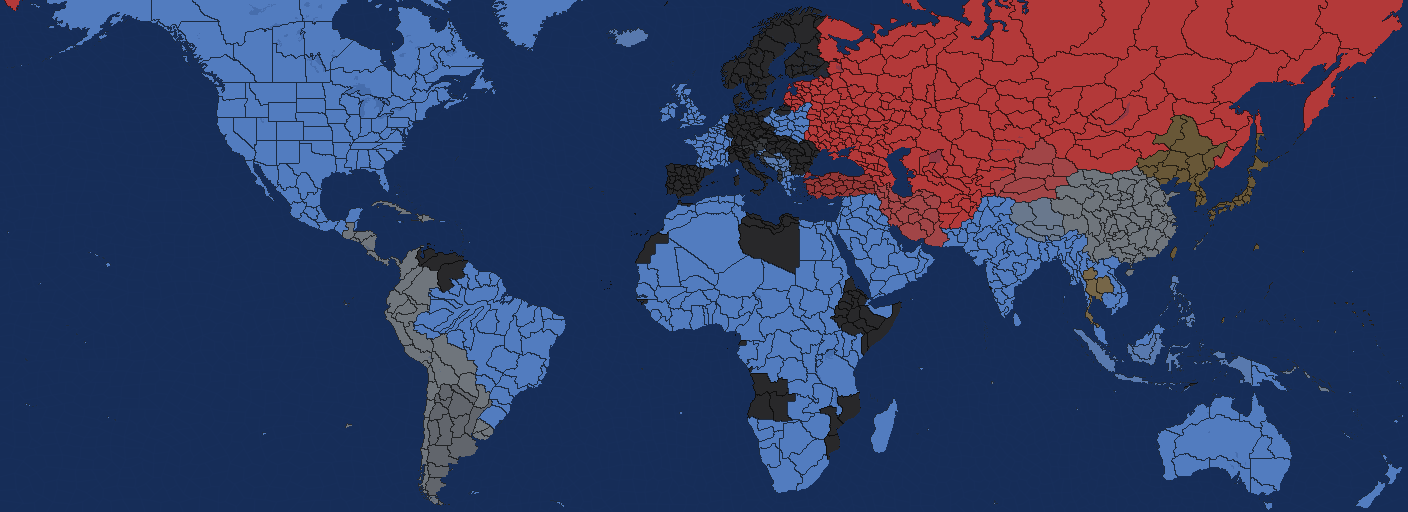
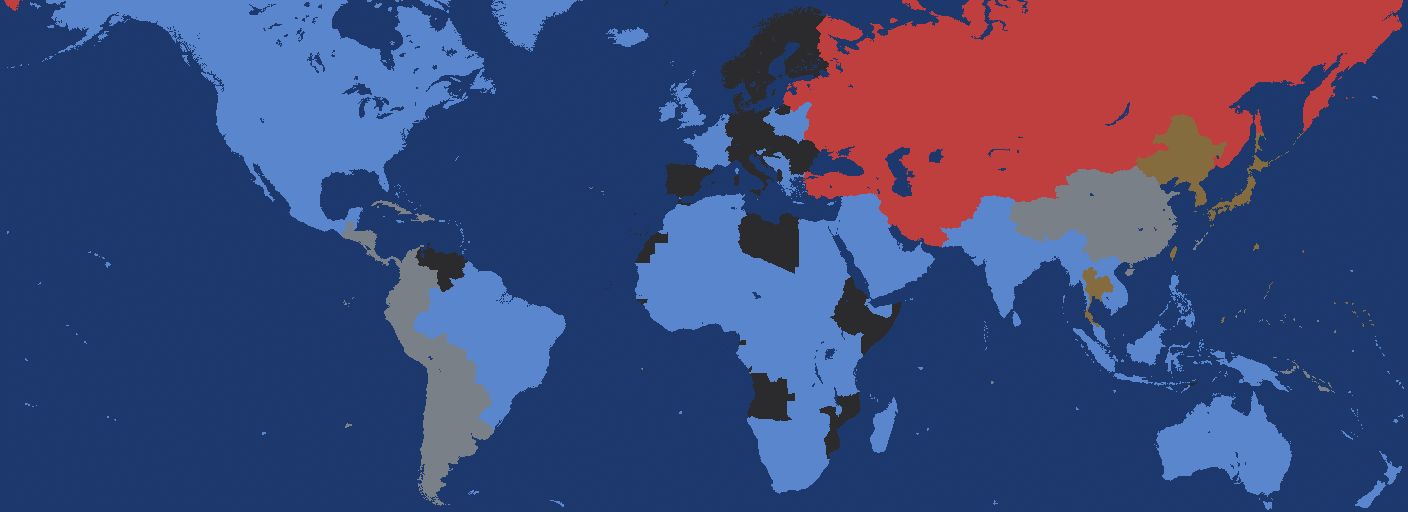
Rewrite

diff --git a/games/2026-05-16-v5-parsed-controller/index.html b/games/2026-05-16-v5-parsed-controller/index.html
@@ -1,14 +1,4 @@
 <!doctype html><html><head><meta charset="utf-8"><meta name="viewport" content="width=device-width, initial-scale=1" /><title>HOI4 FUWG v5 Parsed Animation</title><style>
-:root{color-scheme:dark}body{margin:0;background:#05070c;color:#fff;font-family:Inter,Arial,sans-serif;display:flex;justify-content:center}.wrap{width:min(1500px,96vw);padding:18px 0}h1{font-size:24px;margin:0 0 8px}p{color:#b7bcc8;margin:0 0 12px;line-height:1.35}.viewer{position:relative;border:1px solid #2b3446;border-radius:18px;overflow:hidden;background:#04060a;box-shadow:0 18px 60px rgba(0,0,0,.55)}canvas{width:100%;display:block}.status{position:absolute;inset:0;display:flex;align-items:center;justify-content:center;background:#04060a;color:#d1d5db;font-weight:800;text-align:center;padding:20px}.controls{display:flex;gap:10px;align-items:center;margin-top:12px;flex-wrap:wrap}button{border:0;border-radius:12px;padding:12px 16px;font-weight:800;cursor:pointer;background:#f3f4f6;color:#111}input[type=range]{flex:1;min-width:260px}.badge{background:#141820;border:1px solid #2b3446;padding:10px 12px;border-radius:12px;color:#e5e7eb;min-width:280px}.legend{display:flex;gap:8px;flex-wrap:wrap;margin-top:10px;color:#cbd5e1}.pill{background:#111827;border:1px solid #263244;border-radius:999px;padding:6px 10px;font-size:13px;display:inline-flex;align-items:center;gap:8px}.dot{width:10px;height:10px;border-radius:50%}</style></head><body><div class="wrap"><h1>HOI4 FUWG v5 Parsed Save Animation</h1><p>Controller-based full-frame renderer · 21 parsed snapshots · 1936.3.7.14 to 1936.7.25.14</p><div class="viewer"><canvas id="map" width="1408" height="512"></canvas><div id="status" class="status">Loading map assets…</div></div><div class="controls"><button id="play">Play</button><button id="back">-1</button><button id="next">+1</button><button id="slow">Slow</button><button id="fast">Fast</button><input id="slider" type="range" min="0" max="20" value="0"><span class="badge" id="label"></span></div><div class="legend"><span class="pill"><span class="dot" style="background:#5a86cd"></span>Allies</span><span class="pill"><span class="dot" style="background:#2b2b2d"></span>Axis</span><span class="pill"><span class="dot" style="background:#bf3e3e"></span>Comintern</span><span class="pill"><span class="dot" style="background:#846c3f"></span>GEACPS</span><span class="pill"><span class="dot" style="background:#7a8088"></span>Neutral</span></div></div><script>
-const metadata = {"width": 1408, "height": 512, "source": "v5_binary_state_parser_controller", "renderMode": "fullFrames", "snapshotCount": 21, "startDate": "1936.3.7.14", "endDate": "1936.7.25.14", "snapshots": [{"index": 1, "game_date": "1936.3.7.14", "display_date": "07 Mar 1936", "frame": "frames/frame_000.png", "state_count": 1038}, {"index": 2, "game_date": "1936.3.14.14", "display_date": "14 Mar 1936", "frame": "frames/frame_001.png", "state_count": 1038}, {"index": 3, "game_date": "1936.3.21.14", "display_date": "21 Mar 1936", "frame": "frames/frame_002.png", "state_count": 1038}, {"index": 4, "game_date": "1936.3.28.14", "display_date": "28 Mar 1936", "frame": "frames/frame_003.png", "state_count": 1038}, {"index": 5, "game_date": "1936.4.4.14", "display_date": "04 Apr 1936", "frame": "frames/frame_004.png", "state_count": 1038}, {"index": 6, "game_date": "1936.4.11.14", "display_date": "11 Apr 1936", "frame": "frames/frame_005.png", "state_count": 1038}, {"index": 7, "game_date": "1936.4.18.14", "display_date": "18 Apr 1936", "frame": "frames/frame_006.png", "state_count": 1038}, {"index": 8, "game_date": "1936.4.25.14", "display_date": "25 Apr 1936", "frame": "frames/frame_007.png", "state_count": 1038}, {"index": 9, "game_date": "1936.5.2.14", "display_date": "02 May 1936", "frame": "frames/frame_008.png", "state_count": 1038}, {"index": 10, "game_date": "1936.5.9.14", "display_date": "09 May 1936", "frame": "frames/frame_009.png", "state_count": 1038}, {"index": 11, "game_date": "1936.5.16.14", "display_date": "16 May 1936", "frame": "frames/frame_010.png", "state_count": 1038}, {"index": 12, "game_date": "1936.5.23.14", "display_date": "23 May 1936", "frame": "frames/frame_011.png", "state_count": 1038}, {"index": 13, "game_date": "1936.5.30.14", "display_date": "30 May 1936", "frame": "frames/frame_012.png", "state_count": 1038}, {"index": 14, "game_date": "1936.6.6.14", "display_date": "06 Jun 1936", "frame": "frames/frame_013.png", "state_count": 1038}, {"index": 15, "game_date": "1936.6.13.14", "display_date": "13 Jun 1936", "frame": "frames/frame_014.png", "state_count": 1038}, {"index": 16, "game_date": "1936.6.20.14", "display_date": "20 Jun 1936", "frame": "frames/frame_015.png", "state_count": 1038}, {"index": 17, "game_date": "1936.6.27.14", "display_date": "27 Jun 1936", "frame": "frames/frame_016.png", "state_count": 1038}, {"index": 18, "game_date": "1936.7.4.14", "display_date": "04 Jul 1936", "frame": "frames/frame_017.png", "state_count": 1038}, {"index": 19, "game_date": "1936.7.11.14", "display_date": "11 Jul 1936", "frame": "frames/frame_018.png", "state_count": 1038}, {"index": 20, "game_date": "1936.7.18.14", "display_date": "18 Jul 1936", "frame": "frames/frame_019.png", "state_count": 1038}, {"index": 21, "game_date": "1936.7.25.14", "display_date": "25 Jul 1936", "frame": "frames/frame_020.png", "state_count": 1038}], "legend": {"allies": "#5a86cd", "axis": "#2b2b2d", "comintern": "#bf3e3e", "geacps": "#846c3f", "neutral": "#7a8088", "unknown": "#9aa0a6"}, "factionMap": {"ALB": "axis", "AST": "allies", "AUS": "axis", "BEL": "allies", "BUL": "axis", "CAN": "allies", "CHI": "neutral", "CZE": "axis", "EFR": "neutral", "ENG": "allies", "ETH": "axis", "FIN": "axis", "FRA": "allies", "GER": "axis", "GRE": "allies", "HOL": "allies", "HUN": "axis", "INS": "allies", "IRE": "allies", "ITA": "axis", "JAP": "geacps", "MAN": "geacps", "MEN": "geacps", "SIA": "geacps", "LIT": "comintern", "LAT": "comintern", "EST": "comintern", "MON": "comintern", "TAN": "comintern", "NUL": "neutral", "NZL": "allies", "POL": "allies", "RAJ": "allies", "ROM": "axis", "SAF": "allies", "SAU": "allies", "SOV": "comintern", "SPR": "axis", "SWE": "axis", "TUR": "comintern", "USA": "allies", "VEN": "axis", "YUG": "allies"}, "missingStateCountPerSnapshot": [8, 8, 8, 8, 8, 8, 8, 8, 8, 8, 8, 8, 8, 8, 8, 8, 8, 8, 8, 8, 8], "missingStatesNote": "v5 parse reads 1038 states across FUWG ID range 1-1046; missing states are tiny island/overseas states from uploaded sample.", "unknownTags": []};
-const canvas=document.getElementById('map'),ctx=canvas.getContext('2d'),statusBox=document.getElementById('status'),slider=document.getElementById('slider'),label=document.getElementById('label'),playBtn=document.getElementById('play');
-let idx=0,playing=false,delay=170;const cache=new Map();let token=0;
-function roundRect(c,x,y,w,h,r){c.beginPath();c.moveTo(x+r,y);c.arcTo(x+w,y,x+w,y+h,r);c.arcTo(x+w,y+h,x,y+h,r);c.arcTo(x,y+h,x,y,r);c.arcTo(x,y,x+w,y,r);c.closePath();}
-function panel(c,x,y,w,h){c.fillStyle='rgba(8,10,14,.84)';c.strokeStyle='rgba(255,255,255,.18)';c.lineWidth=1;roundRect(c,x,y,w,h,16);c.fill();c.stroke();}
-function drawUI(c,s){c.save();panel(c,18,18,190,64);c.font='700 16px Arial';c.fillStyle='rgba(195,195,195,.96)';c.fillText('CURRENT DATE',30,37);c.font='900 24px Arial';c.fillStyle='rgba(255,255,255,.98)';c.fillText(s.display_date,30,62);panel(c,1190,18,200,56);c.font='700 15px Arial';c.fillStyle='rgba(195,195,195,.96)';c.fillText('PARSED STATES',1236,38);c.font='900 18px Arial';c.fillStyle='rgba(255,255,255,.98)';c.fillText(String(s.state_count),1272,58);c.textAlign='center';panel(c,245,18,918,38);c.font='800 18px Arial';c.fillStyle='rgba(238,238,238,.98)';c.fillText('v5 controller-based FUWG renderer',704,43);c.textAlign='left';c.fillStyle='rgba(8,10,14,.7)';c.strokeStyle='rgba(255,255,255,.12)';roundRect(c,18,470,520,32,13);c.fill();c.stroke();c.font='900 14px Arial';c.fillStyle='rgba(220,220,220,.95)';c.fillText(`Snapshot ${idx+1} / $21`,30,491);c.restore();}
-function loadImage(src){return new Promise((res,rej)=>{const img=new Image();img.onload=()=>res(img);img.onerror=()=>rej(new Error('Failed to load '+src));img.src=src;})}
-async function getFrame(i){const rel=metadata.snapshots[i].frame;if(cache.has(rel))return cache.get(rel);const p=loadImage('./assets/'+rel);cache.set(rel,p);return p;}
-async function render(){const t=++token,s=metadata.snapshots[idx];statusBox.style.display='flex';statusBox.textContent='Loading frame…';try{const img=await getFrame(idx);if(t!==token)return;ctx.clearRect(0,0,canvas.width,canvas.height);ctx.drawImage(img,0,0);drawUI(ctx,s);slider.value=idx;label.textContent=s.display_date+' · '+s.game_date;statusBox.style.display='none';[idx+1,idx+2,idx-1].filter(v=>v>=0&&v<metadata.snapshotCount).forEach(i=>getFrame(i));}catch(e){statusBox.innerHTML='Map failed to load.<br><br>'+e.message;console.error(e);}}
-function tick(){if(!playing)return;idx=Math.min(metadata.snapshotCount-1,idx+1);render().then(()=>{if(idx>=metadata.snapshotCount-1){playing=false;playBtn.textContent='Play';return;}setTimeout(tick,delay);})}
-playBtn.onclick=()=>{playing=!playing;playBtn.textContent=playing?'Pause':'Play';if(playing)tick();};document.getElementById('back').onclick=()=>{idx=Math.max(0,idx-1);render();};document.getElementById('next').onclick=()=>{idx=Math.min(metadata.snapshotCount-1,idx+1);render();};document.getElementById('slow').onclick=()=>delay=260;document.getElementById('fast').onclick=()=>delay=95;slider.oninput=e=>{idx=Number(e.target.value);render();};render();
+:root{color-scheme:dark}body{margin:0;background:#05070c;color:#fff;font-family:Inter,Arial,sans-serif;display:flex;justify-content:center}.wrap{width:min(1500px,96vw);padding:18px 0}h1{font-size:24px;margin:0 0 8px}p{color:#b7bcc8;margin:0 0 12px;line-height:1.35}.viewer{position:relative;border:1px solid #2b3446;border-radius:18px;overflow:hidden;background:#04060a;box-shadow:0 18px 60px rgba(0,0,0,.55)}canvas{width:100%;display:block}.status{position:absolute;inset:0;display:flex;align-items:center;justify-content:center;background:#04060a;color:#d1d5db;font-weight:800;text-align:center;padding:20px}.controls{display:flex;gap:10px;align-items:center;margin-top:12px;flex-wrap:wrap}button{border:0;border-radius:12px;padding:12px 16px;font-weight:800;cursor:pointer;background:#f3f4f6;color:#111}input[type=range]{flex:1;min-width:260px}.badge{background:#141820;border:1px solid #2b3446;padding:10px 12px;border-radius:12px;color:#e5e7eb;min-width:280px}.legend{display:flex;gap:8px;flex-wrap:wrap;margin-top:10px;color:#cbd5e1}.pill{background:#111827;border:1px solid #263244;border-radius:999px;padding:6px 10px;font-size:13px;display:inline-flex;align-items:center;gap:8px}.dot{width:10px;height:10px;border-radius:50%}a.back{display:inline-block;margin-bottom:12px;color:#cbd5e1}</style></head><body><div class="wrap"><a class="back" href="../../index.html">← Back to archive</a><h1>HOI4 FUWG v5 Parsed Save Animation</h1><p>Controller-based full-frame renderer · borderless state fill · 21 parsed snapshots · 1936.3.7.14 to 1936.7.25.14</p><div class="viewer"><canvas id="map" width="1408" height="512"></canvas><div id="status" class="status">Loading map assets…</div></div><div class="controls"><button id="play">Play</button><button id="back">-1</button><button id="next">+1</button><button id="slow">Slow</button><button id="fast">Fast</button><input id="slider" type="range" min="0" max="20" value="0"><span class="badge" id="label"></span></div><div class="legend"><span class="pill"><span class="dot" style="background:#5a86cd"></span>Allies</span><span class="pill"><span class="dot" style="background:#2b2b2d"></span>Axis</span><span class="pill"><span class="dot" style="background:#bf3e3e"></span>Comintern</span><span class="pill"><span class="dot" style="background:#846c3f"></span>GEACPS</span><span class="pill"><span class="dot" style="background:#7a8088"></span>Neutral</span></div></div><script>
+const metadata={"width": 1408, "height": 512, "source": "v5_binary_state_parser_controller_noborders", "renderMode": "fullFrames", "snapshotCount": 21, "startDate": "1936.3.7.14", "endDate": "1936.7.25.14", "snapshots": [{"index": 1, "game_date": "1936.3.7.14", "display_date": "07 Mar 1936", "frame": "frames/frame_000.png", "state_count": 1038}, {"index": 2, "game_date": "1936.3.14.14", "display_date": "14 Mar 1936", "frame": "frames/frame_001.png", "state_count": 1038}, {"index": 3, "game_date": "1936.3.21.14", "display_date": "21 Mar 1936", "frame": "frames/frame_002.png", "state_count": 1038}, {"index": 4, "game_date": "1936.3.28.14", "display_date": "28 Mar 1936", "frame": "frames/frame_003.png", "state_count": 1038}, {"index": 5, "game_date": "1936.4.4.14", "display_date": "04 Apr 1936", "frame": "frames/frame_004.png", "state_count": 1038}, {"index": 6, "game_date": "1936.4.11.14", "display_date": "11 Apr 1936", "frame": "frames/frame_005.png", "state_count": 1038}, {"index": 7, "game_date": "1936.4.18.14", "display_date": "18 Apr 1936", "frame": "frames/frame_006.png", "state_count": 1038}, {"index": 8, "game_date": "1936.4.25.14", "display_date": "25 Apr 1936", "frame": "frames/frame_007.png", "state_count": 1038}, {"index": 9, "game_date": "1936.5.2.14", "display_date": "02 May 1936", "frame": "frames/frame_008.png", "state_count": 1038}, {"index": 10, "game_date": "1936.5.9.14", "display_date": "09 May 1936", "frame": "frames/frame_009.png", "state_count": 1038}, {"index": 11, "game_date": "1936.5.16.14", "display_date": "16 May 1936", "frame": "frames/frame_010.png", "state_count": 1038}, {"index": 12, "game_date": "1936.5.23.14", "display_date": "23 May 1936", "frame": "frames/frame_011.png", "state_count": 1038}, {"index": 13, "game_date": "1936.5.30.14", "display_date": "30 May 1936", "frame": "frames/frame_012.png", "state_count": 1038}, {"index": 14, "game_date": "1936.6.6.14", "display_date": "06 Jun 1936", "frame": "frames/frame_013.png", "state_count": 1038}, {"index": 15, "game_date": "1936.6.13.14", "display_date": "13 Jun 1936", "frame": "frames/frame_014.png", "state_count": 1038}, {"index": 16, "game_date": "1936.6.20.14", "display_date": "20 Jun 1936", "frame": "frames/frame_015.png", "state_count": 1038}, {"index": 17, "game_date": "1936.6.27.14", "display_date": "27 Jun 1936", "frame": "frames/frame_016.png", "state_count": 1038}, {"index": 18, "game_date": "1936.7.4.14", "display_date": "04 Jul 1936", "frame": "frames/frame_017.png", "state_count": 1038}, {"index": 19, "game_date": "1936.7.11.14", "display_date": "11 Jul 1936", "frame": "frames/frame_018.png", "state_count": 1038}, {"index": 20, "game_date": "1936.7.18.14", "display_date": "18 Jul 1936", "frame": "frames/frame_019.png", "state_count": 1038}, {"index": 21, "game_date": "1936.7.25.14", "display_date": "25 Jul 1936", "frame": "frames/frame_020.png", "state_count": 1038}], "legend": {"allies": "#5a86cd", "axis": "#2b2b2d", "comintern": "#bf3e3e", "geacps": "#846c3f", "neutral": "#7a8088", "unknown": "#9aa0a6"}, "factionMap": {"ALB": "axis", "AST": "allies", "AUS": "axis", "BEL": "allies", "BUL": "axis", "CAN": "allies", "CHI": "neutral", "CZE": "axis", "EFR": "neutral", "ENG": "allies", "ETH": "axis", "FIN": "axis", "FRA": "allies", "GER": "axis", "GRE": "allies", "HOL": "allies", "HUN": "axis", "INS": "allies", "IRE": "allies", "ITA": "axis", "JAP": "geacps", "MAN": "geacps", "MEN": "geacps", "SIA": "geacps", "LIT": "comintern", "LAT": "comintern", "EST": "comintern", "MON": "comintern", "TAN": "comintern", "NUL": "neutral", "NZL": "allies", "POL": "allies", "RAJ": "allies", "ROM": "axis", "SAF": "allies", "SAU": "allies", "SOV": "comintern", "SPR": "axis", "SWE": "axis", "TUR": "comintern", "USA": "allies", "VEN": "axis", "YUG": "allies"}, "missingStateCountPerSnapshot": [8, 8, 8, 8, 8, 8, 8, 8, 8, 8, 8, 8, 8, 8, 8, 8, 8, 8, 8, 8, 8], "missingStatesNote": "Built from v5 parse output with borderless state fill using FUWG state files.", "unknownTags": []};const canvas=document.getElementById('map'),ctx=canvas.getContext('2d'),statusBox=document.getElementById('status'),slider=document.getElementById('slider'),label=document.getElementById('label'),playBtn=document.getElementById('play');let idx=0,playing=false,delay=170;const cache=new Map();let token=0;function roundRect(c,x,y,w,h,r){c.beginPath();c.moveTo(x+r,y);c.arcTo(x+w,y,x+w,y+h,r);c.arcTo(x+w,y+h,x,y+h,r);c.arcTo(x,y+h,x,y,r);c.arcTo(x,y,x+w,y,r);c.closePath();}function panel(c,x,y,w,h){c.fillStyle='rgba(8,10,14,.84)';c.strokeStyle='rgba(255,255,255,.18)';c.lineWidth=1;roundRect(c,x,y,w,h,16);c.fill();c.stroke();}function drawUI(c,s){c.save();panel(c,18,18,190,64);c.font='700 16px Arial';c.fillStyle='rgba(195,195,195,.96)';c.fillText('CURRENT DATE',30,37);c.font='900 24px Arial';c.fillStyle='rgba(255,255,255,.98)';c.fillText(s.display_date,30,62);panel(c,1190,18,200,56);c.font='700 15px Arial';c.fillStyle='rgba(195,195,195,.96)';c.fillText('PARSED STATES',1236,38);c.font='900 18px Arial';c.fillStyle='rgba(255,255,255,.98)';c.fillText(String(s.state_count),1272,58);c.textAlign='center';panel(c,245,18,918,38);c.font='800 18px Arial';c.fillStyle='rgba(238,238,238,.98)';c.fillText('v5 controller-based FUWG renderer · borderless state fill',704,43);c.textAlign='left';c.fillStyle='rgba(8,10,14,.7)';c.strokeStyle='rgba(255,255,255,.12)';roundRect(c,18,470,520,32,13);c.fill();c.stroke();c.font='900 14px Arial';c.fillStyle='rgba(220,220,220,.95)';c.fillText(`Snapshot ${idx+1} / $21`,30,491);c.restore();}function loadImage(src){return new Promise((res,rej)=>{const img=new Image();img.onload=()=>res(img);img.onerror=()=>rej(new Error('Failed to load '+src));img.src=src;})}async function getFrame(i){const rel=metadata.snapshots[i].frame;if(cache.has(rel))return cache.get(rel);const p=loadImage('./assets/'+rel);cache.set(rel,p);return p;}async function render(){const t=++token,s=metadata.snapshots[idx];statusBox.style.display='flex';statusBox.textContent='Loading frame…';try{const img=await getFrame(idx);if(t!==token)return;ctx.clearRect(0,0,canvas.width,canvas.height);ctx.drawImage(img,0,0);drawUI(ctx,s);slider.value=idx;label.textContent=s.display_date+' · '+s.game_date;statusBox.style.display='none';[idx+1,idx+2,idx-1].filter(v=>v>=0&&v<metadata.snapshotCount).forEach(i=>getFrame(i));}catch(e){statusBox.innerHTML='Map failed to load.<br><br>'+e.message;console.error(e);}}function tick(){if(!playing)return;idx=Math.min(metadata.snapshotCount-1,idx+1);render().then(()=>{if(idx>=metadata.snapshotCount-1){playing=false;playBtn.textContent='Play';return;}setTimeout(tick,delay);})}playBtn.onclick=()=>{playing=!playing;playBtn.textContent=playing?'Pause':'Play';if(playing)tick();};document.getElementById('back').onclick=()=>{idx=Math.max(0,idx-1);render();};document.getElementById('next').onclick=()=>{idx=Math.min(metadata.snapshotCount-1,idx+1);render();};document.getElementById('slow').onclick=()=>delay=260;document.getElementById('fast').onclick=()=>delay=95;slider.oninput=e=>{idx=Number(e.target.value);render();};render();
 </script></body></html>

diff --git a/index.html b/index.html
@@ -1,1 +1,56 @@
-<meta http-equiv="refresh" content="0; url=games/2026-05-16-v5-parsed-controller/index.html">
+<!doctype html>
+<html lang="en"><head><meta charset="utf-8" /><meta name="viewport" content="width=device-width, initial-scale=1" /><title>HOI4 Parsed Save Archive</title><link rel="stylesheet" href="styles.css" /></head><body>
+<header class="hero"><div class="shell"><div class="eyebrow">HOI4 Parsed Game Log Archive</div><h1>Animated campaign recaps by game date.</h1><p class="lead">This repo uses parsed HOI4 save data only. Every frame reads every parsed state controller and colours the state by faction, now with borderless state fill for a cleaner map.</p><div class="actions"><a class="btn primary" href="#games">View games</a> <a class="btn" href="games/2026-05-16-v5-parsed-controller/index.html">Open latest sample</a></div></div></header>
+<main class="section" id="games"><div class="shell"><div class="section-head"><div><h2>Available game logs</h2><div class="muted">Loaded from <code>games/games.json</code></div></div></div><div id="gameGrid" class="grid"></div><section class="howto"><h2>Renderer rules</h2><p class="muted">For each frame, for each parsed state: read the controller tag, map that tag to a faction, and colour the state accordingly. No narrative/manual overrides.</p><pre id="mappingBox"></pre></section></div></main>
+<footer class="footer"><div class="shell">Static GitHub Pages site · parsed save data renderer · borderless state fill.</div></footer>
+<script>
+const factionMap = {
+  "ALB": "axis",
+  "AST": "allies",
+  "AUS": "axis",
+  "BEL": "allies",
+  "BUL": "axis",
+  "CAN": "allies",
+  "CHI": "neutral",
+  "CZE": "axis",
+  "EFR": "neutral",
+  "ENG": "allies",
+  "ETH": "axis",
+  "FIN": "axis",
+  "FRA": "allies",
+  "GER": "axis",
+  "GRE": "allies",
+  "HOL": "allies",
+  "HUN": "axis",
+  "INS": "allies",
+  "IRE": "allies",
+  "ITA": "axis",
+  "JAP": "geacps",
+  "MAN": "geacps",
+  "MEN": "geacps",
+  "SIA": "geacps",
+  "LIT": "comintern",
+  "LAT": "comintern",
+  "EST": "comintern",
+  "MON": "comintern",
+  "TAN": "comintern",
+  "NUL": "neutral",
+  "NZL": "allies",
+  "POL": "allies",
+  "RAJ": "allies",
+  "ROM": "axis",
+  "SAF": "allies",
+  "SAU": "allies",
+  "SOV": "comintern",
+  "SPR": "axis",
+  "SWE": "axis",
+  "TUR": "comintern",
+  "USA": "allies",
+  "VEN": "axis",
+  "YUG": "allies"
+};
+document.getElementById('mappingBox').textContent = JSON.stringify(factionMap, null, 2);
+async function loadGames(){const grid=document.getElementById('gameGrid');try{const res=await fetch('games/games.json',{cache:'no-store'});if(!res.ok) throw new Error('Could not load games/games.json');const games=await res.json();if(!games.length){grid.innerHTML='<div class="empty">No game logs have been added yet.</div>';return;}games.sort((a,b)=>String(b.date).localeCompare(String(a.date)));grid.innerHTML=games.map(game=>`<article class="card"><h3>${escapeHtml(game.title || game.date)}</h3><p>${escapeHtml(game.description || 'Animated game log recap.')}</p><div class="meta"><span class="pill">${escapeHtml(game.date || 'Unknown date')}</span><span class="pill">${escapeHtml(game.mod || 'HOI4')}</span><span class="pill">${escapeHtml(game.status || 'Available')}</span></div><a class="btn primary" href="${encodeURI(game.path)}">Watch animation</a></article>`).join('');}catch(err){grid.innerHTML=`<div class="empty">${escapeHtml(err.message)}. If opening locally, use a small local server or upload to GitHub Pages.</div>`;}}
+function escapeHtml(value){return String(value ?? '').replace(/[&<>'"]/g, c => ({'&':'&amp;','<':'&lt;','>':'&gt;',"'":'&#39;','"':'&quot;'}[c]));}
+loadGames();
+</script></body></html>

diff --git a/styles.css b/styles.css
@@ -1,0 +1,1 @@
+*{box-sizing:border-box}body{margin:0;background:#070a11;color:#f5f7fb;font-family:Inter,system-ui,-apple-system,BlinkMacSystemFont,"Segoe UI",sans-serif;min-height:100vh}.hero{padding:48px 22px 28px;background:radial-gradient(circle at top left,rgba(83,121,255,.24),transparent 38%),linear-gradient(180deg,#0d1220,#070a11)}.shell{max-width:1180px;margin:0 auto}.eyebrow{color:#9db2ff;text-transform:uppercase;letter-spacing:.14em;font-size:12px;font-weight:800;margin-bottom:12px}h1{font-size:clamp(34px,5vw,64px);line-height:1.02;margin:0 0 16px}.lead{max-width:820px;color:#c6cedd;font-size:18px;line-height:1.55;margin:0}.actions{display:flex;gap:12px;flex-wrap:wrap;margin-top:24px}.btn{display:inline-flex;align-items:center;gap:8px;border:1px solid rgba(255,255,255,.16);border-radius:14px;padding:12px 16px;color:#fff;text-decoration:none;background:rgba(255,255,255,.08);font-weight:800}.btn.primary{background:#f3f4f6;color:#111}.section{padding:28px 22px 60px}.section-head{display:flex;align-items:end;justify-content:space-between;gap:16px;margin-bottom:18px}.section h2{font-size:26px;margin:0}.muted{color:#9aa4b8}.grid{display:grid;grid-template-columns:repeat(auto-fill,minmax(280px,1fr));gap:16px}.card{border:1px solid rgba(255,255,255,.12);border-radius:22px;background:rgba(255,255,255,.055);padding:18px;box-shadow:0 18px 45px rgba(0,0,0,.2)}.card h3{margin:0 0 8px;font-size:20px}.card p{margin:0 0 14px;color:#bec7d8;line-height:1.45}.meta{display:flex;gap:8px;flex-wrap:wrap;margin:12px 0}.pill{font-size:12px;border:1px solid rgba(255,255,255,.12);border-radius:999px;padding:6px 9px;color:#dce3f4;background:rgba(255,255,255,.06)}.empty{border:1px dashed rgba(255,255,255,.22);border-radius:22px;padding:22px;color:#aeb8c9}.howto{margin-top:30px;border:1px solid rgba(255,255,255,.12);border-radius:22px;padding:20px;background:rgba(255,255,255,.04)}code{background:rgba(255,255,255,.08);border:1px solid rgba(255,255,255,.1);padding:2px 6px;border-radius:7px}pre{white-space:pre-wrap;background:#0b0f19;border:1px solid rgba(255,255,255,.12);border-radius:16px;padding:14px;overflow:auto}.footer{padding:28px 22px;color:#8791a6;border-top:1px solid rgba(255,255,255,.08)}

diff --git a/README.md b/README.md
@@ -1,1 +1,12 @@
-HOI4 FUWG v5 parsed-save animation package. Open games/2026-05-16-v5-parsed-controller/index.html.
+# HOI4 Parsed Save Archive
+
+This repo is built around parsed saves only.
+
+## Render rule
+For every frame and every parsed state: read the controller tag, map that tag to a faction, and colour the state accordingly.
+
+## This iteration
+- v5 parser output
+- FUWG state layout
+- borderless state fill
+- repo structure suitable for GitHub Pages
